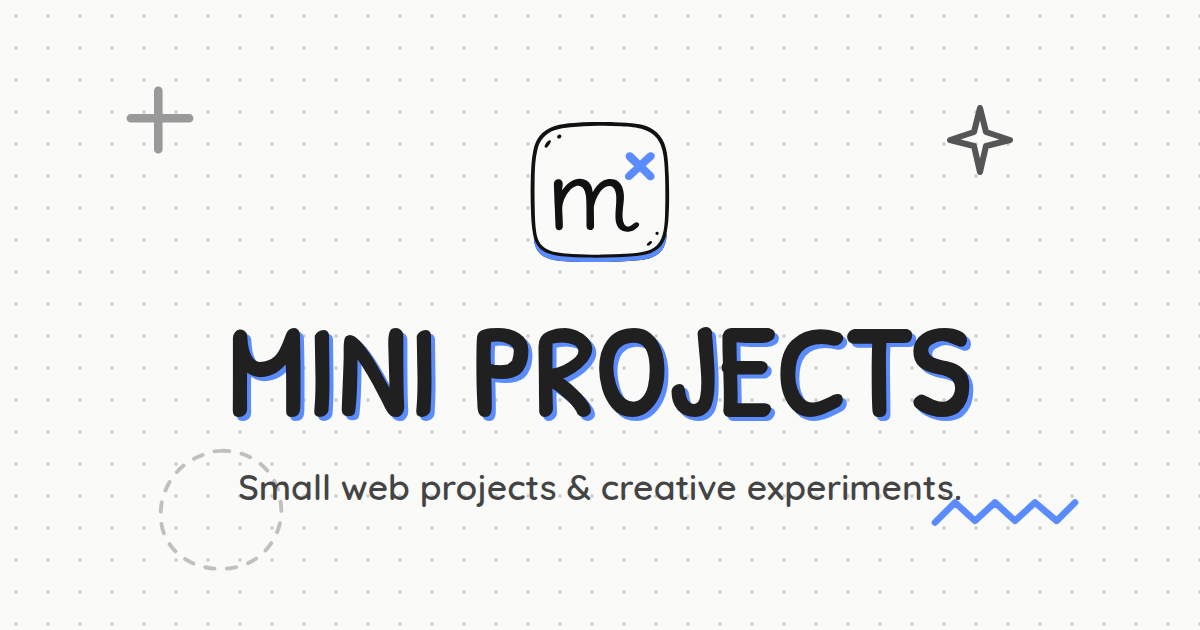
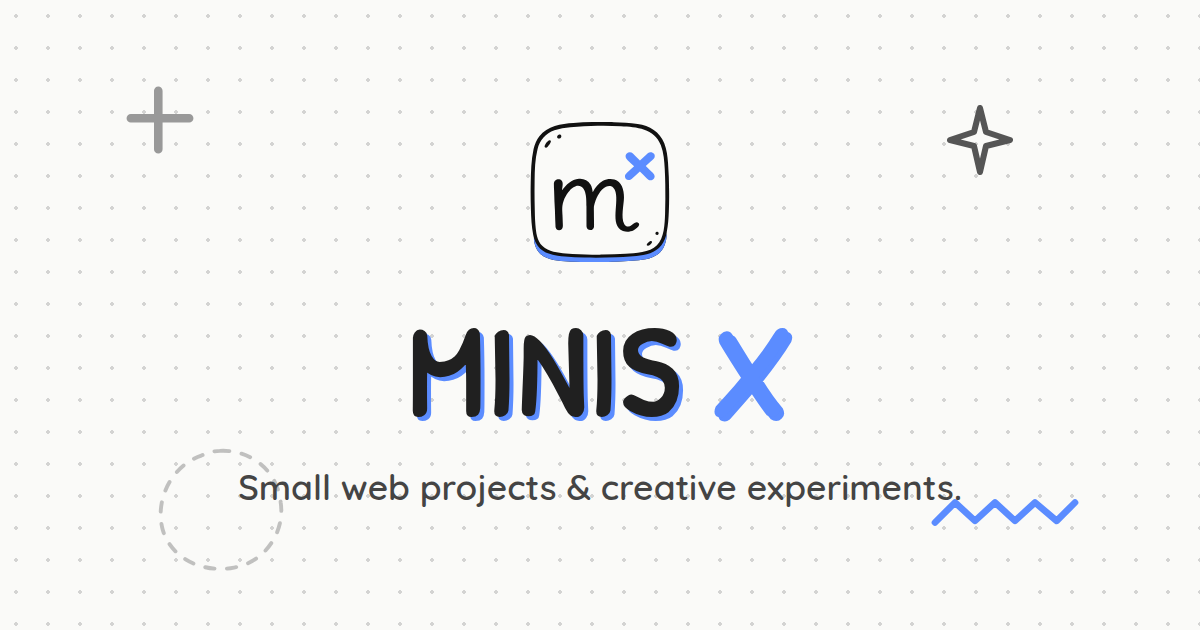
feat: rebrand project as MINIS X and add blue-x styling class

Changed region(s): [[0.185, 0.5127, 0.8325, 0.6937]]

diff --git a/index.html b/index.html
@@ -3,8 +3,8 @@
   <head>
     <meta charset="UTF-8" />
     <meta name="viewport" content="width=device-width, initial-scale=1.0" />
-    <title>Minis — Small Web Projects & Creative Experiments</title>
-    <meta name="description" content="Explore Minis, a collection of small interactive web projects, creative experiments, and playful frontend builds by Syed Imadulla." />
+    <title>MINIS X — Small Web Projects & Creative Experiments</title>
+    <meta name="description" content="Explore MINIS X, a collection of small interactive web projects, creative experiments, and playful frontend builds by Syed Imadulla." />
     <meta name="author" content="Syed Imadulla" />
     
     <link rel="canonical" href="https://minisx.netlify.app/" />
@@ -13,15 +13,15 @@
     <!-- Open Graph / Facebook -->
     <meta property="og:type" content="website" />
     <meta property="og:url" content="https://minisx.netlify.app/" />
-    <meta property="og:title" content="Minis — Small Web Projects & Creative Experiments" />
-    <meta property="og:description" content="Explore Minis, a collection of small interactive web projects, creative experiments, and playful frontend builds by Syed Imadulla." />
+    <meta property="og:title" content="MINIS X — Small Web Projects & Creative Experiments" />
+    <meta property="og:description" content="Explore MINIS X, a collection of small interactive web projects, creative experiments, and playful frontend builds by Syed Imadulla." />
     <meta property="og:image" content="https://minisx.netlify.app/og-image.png" />
 
     <!-- Twitter -->
     <meta name="twitter:card" content="summary_large_image" />
     <meta name="twitter:url" content="https://minisx.netlify.app/" />
-    <meta name="twitter:title" content="Minis — Small Web Projects & Creative Experiments" />
-    <meta name="twitter:description" content="Explore Minis, a collection of small interactive web projects, creative experiments, and playful frontend builds by Syed Imadulla." />
+    <meta name="twitter:title" content="MINIS X — Small Web Projects & Creative Experiments" />
+    <meta name="twitter:description" content="Explore MINIS X, a collection of small interactive web projects, creative experiments, and playful frontend builds by Syed Imadulla." />
     <meta name="twitter:image" content="https://minisx.netlify.app/og-image.png" />
 
     <!-- Structured Data -->
@@ -29,8 +29,8 @@
     {
       "@context": "https://schema.org",
       "@type": "CollectionPage",
-      "name": "Minis — Small Web Projects & Creative Experiments",
-      "description": "Explore Minis, a collection of small interactive web projects, creative experiments, and playful frontend builds by Syed Imadulla.",
+      "name": "MINIS X — Small Web Projects & Creative Experiments",
+      "description": "Explore MINIS X, a collection of small interactive web projects, creative experiments, and playful frontend builds by Syed Imadulla.",
       "url": "https://minisx.netlify.app/",
       "author": {
         "@type": "Person",
@@ -181,7 +181,7 @@
             <line x1="18" y1="24" x2="2"  y2="24" stroke="#5b8cff" stroke-width="2.5" stroke-linecap="round"/>
             <line x1="16" y1="32" x2="4"  y2="40" stroke="#5b8cff" stroke-width="2.5" stroke-linecap="round"/>
           </svg>
-          <h1 class="hero-title">MINI PROJECTS</h1>
+          <h1 class="hero-title">MINIS <span class="blue-x">X</span></h1>
           <!-- Right blue rays (floating dashes, diverge outward/right) -->
           <svg class="title-rays rays-right" viewBox="0 0 32 48" width="32" height="48" aria-hidden="true" focusable="false">
             <line x1="16" y1="16" x2="28" y2="8"  stroke="#5b8cff" stroke-width="2.5" stroke-linecap="round"/>
@@ -201,7 +201,7 @@
       </section>
 
       <!-- =================== PROJECT GRID =================== -->
-      <section class="project-grid" aria-label="Mini projects">
+      <section class="project-grid" aria-label="MINIS X">
 
         <!-- Card 01: Counter -->
         <a href="./counter/index.html" class="card" id="card-counter">

diff --git a/style.css b/style.css
@@ -254,6 +254,9 @@ main {
   position: relative;
   padding-bottom: 14px;
 }
+.blue-x {
+  color: var(--blue);
+}
 
 /* Rough underline — absolutely sits under the h1 */
 .title-underline {

diff --git a/README.md b/README.md
@@ -1,4 +1,4 @@
-# 🎨 Mini Projects Collection
+# 🎨 MINIS X Collection
 
 Welcome to my collection of small experiments, creative builds, and fun interactive web applications! This repository houses several mini-projects built with HTML, CSS, and Vanilla JavaScript. 
 
